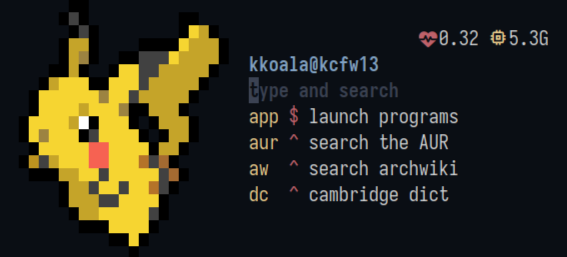
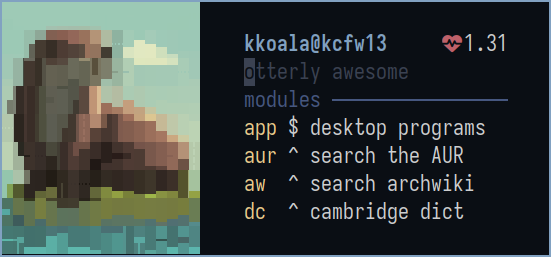
rice default config & update readme

diff --git a/README.md b/README.md
@@ -1,7 +1,7 @@
 
 # otter-launcher
 
-![cover_pic](./assets/soothing.png)
+![cover_pic](./assets/default.png)
 
 A very hackable app launcher, designed for keyboard-centric wm users. It is blazingly fast, supports vi and emacs keybinds, and can be decorated with ansi color codes, sixel or kitty image protocols. Plus, through bash scripting, system info widgets can be added to the infinity.
 
@@ -63,11 +63,11 @@ sudo cp /tmp/otter-launcher/target/release/otter-launcher /usr/bin/
 
 2. Create a config file mannually
 
-The default config file looks for /etc/otter-launcher/pikachu.example, which is in the repos's config_example folder. You can modify the config file to either remove this line from overlay_cmd or point to the pikachu.
+Create a config at $HOME/.config/otter-launcher/config.toml. The [default config](https://github.com/kuokuo123/otter-launcher/tree/main/config_example/config.toml) looks for /etc/otter-launcher/[pikachu.example](https://github.com/kuokuo123/otter-launcher/tree/main/config_example/pikachu.example) to show a chafa image. You can modify the config file to remove this line from overlay_cmd.
 
 # Configuration
 
-Otter-launcher reads from $HOME/.config/otter-launcher/config.toml. If that file is missing, it looks into /etc/otter-launcher/config.toml, which is included with AUR installation.
+Otter-launcher reads from $HOME/.config/otter-launcher/config.toml. If that file is missing, it looks into /etc/otter-launcher/config.toml, which is included in AUR installation.
 
 The confing file encompasses four parts:
 
@@ -76,9 +76,9 @@ The confing file encompasses four parts:
 - [overlay] includes options releated to image integration
 - [[modules]] can be configured through bash scripting in an unlimited number
 
-All the available are listed below, and can also be found in [config_example](https://github.com/kuokuo123/otter-launcher/tree/main/config_example). Also, check [more examples of module config](https://github.com/kuokuo123/otter-launcher/wiki) at the wiki page.
+All the available options are listed below and in the [config_example](https://github.com/kuokuo123/otter-launcher/tree/main/config_example). Also, check [more examples of module config](https://github.com/kuokuo123/otter-launcher/wiki) at the wiki page.
 
-Since v0.6.0, the default config comes with a pikachu to demonstrate how image integration works.
+Since v0.6.1, the default config comes with a chafa otter to demonstrate how image integration works.
 
 ![Example Config](./assets/default.png)
 
@@ -94,41 +94,40 @@ cheatsheet_entry = "?" # when prompted, will show a list of configured modules
 cheatsheet_viewer = "less -R; clear" # command to show cheatsheet; through piping stdout
 clear_screen_after_execution = false
 loop_mode = false # don't quit after executing a module, useful with scratchpads
-external_editor = "nvim" # if set, press ctrl+e (or v in vi normal mode) to edit prompt in specified program
+external_editor = "vi" # if set, press ctrl+e (or v in vi normal mode) to edit prompt in specified program
 delay_startup = 0 # sometimes the otter runs too fast even before the terminal window is ready; this slows it down by milliseconds; useful when chafa image is skewed
 #callback = "" # if set, will run after module execution; for example, calling swaymsg to adjust window size
 
 
 # ANSI color codes are allowed. However, \x1b should be replaced with \u001B, because the rust toml crate cannot read \x as an escaped character
 [interface]
-# use three quotes to write longer commands
+# use three quotes to write longer codes
 header = """
-                   \u001B[31m\u001B[0m $(cat /proc/loadavg | cut -d ' ' -f 1) \u001B[33m\u001B[0m $(free -h | awk 'FNR == 2 {print $3}' | sed 's/i//')
-  \u001B[34;1m$USER@$(printf $HOSTNAME)
- \u001B[0;1m """
+  \u001B[34;1m$USER@$(printf $HOSTNAME)\u001B[0m     \u001B[31m\u001B[0m $(mpstat | awk 'FNR ==4 {print $4}')
+  """
 header_cmd = "" # run a command and print stdout above the header
 header_cmd_trimmed_lines = 0 # remove trailing lines from header_cmd output, in case of some programs appending excessive empty lines
 header_concatenate = false # print header and header_cmd output to the same line, default to false
-place_holder = "type and search" # at the input field
+place_holder = "otterly awesome" # at the input field
 suggestion_mode = "list" # available options: list, hint
-separator = "" # add a line between intput field and suggestion list; only effective in list mode
+separator = "                      \u001B[90mmodules ────────────────" # add a line between intput field and suggestion list; only effective in list mode
 footer = "" # add a line after suggestion list
 suggestion_lines = 4 # 0 to disable suggestions and tab completion
 list_prefix = "  "
-selection_prefix = "\u001B[31;1m> "
+selection_prefix = "\u001B[31;1m▌ "
 prefix_padding = 3 # format prefixes to have a uniformed width
 default_module_message = "  \u001B[33msearch\u001B[0m the internet" # shown when the default module is in use
 empty_module_message = "" # shown when the empty module is in use
 customized_list_order = false # false to list modules alphabetically; true to list as per the configured order in the below [[modules]] section
-indicator_with_arg_module = "\u001B[31m^\u001B[0m " # the sign showing whether a module should run with an argument
-indicator_no_arg_module = "\u001B[31m$\u001B[0m "
+indicator_with_arg_module = "^ " # the sign showing whether a module should run with an argument
+indicator_no_arg_module = "$ "
 # below color options affect all modules; per-module coloring can be configured using ansi codes individually
 prefix_color = "\u001B[33m"
 description_color = "\u001B[39m"
 place_holder_color = "\u001B[30m"
 hint_color = "\u001B[30m" # suggestion color in hint mode
 # move the interface rightward or downward
-move_interface_right = 23
+move_interface_right = 20
 move_interface_down = 1
 
 
@@ -139,15 +138,15 @@ overlay_cmd = """
 cat /etc/otter-launcher/pikachu.example \
 || echo -e "The file pickachu.example is not found. Pikachu can be at the below blank area. Fix this by modifying the overlay_cmd option in your config file.\n\n"
 """
-overlay_trimmed_lines = 1 # remove trailing lines from overlay_cmd output
+overlay_trimmed_lines = 0 # remove trailing lines from overlay_cmd output
 overlay_height = 0 # set overlay size; 0 to be auto; 1 is one line, 2 two lines, etc; kitty & sixel image size can be determined automatically; others should be set mannually
-move_overlay_right = 2 # move the overlay layer around for theming
+move_overlay_right = 0 # move the overlay layer around for theming
 move_overlay_down = 0
 
 
 # modules are defined as followed
 [[modules]]
-description = "search with google"
+description = "google search"
 prefix = "gg"
 cmd = "xdg-open https://www.google.com/search?q='{}'" # try wm's exec command for unbinding if 'setsid -f' does not work as expected, eg. 'hyprctl dispatch exec'
 with_argument = true # if true, {} in cmd will be replaced with user input. if not explicitly set, taken as false.
@@ -156,7 +155,7 @@ unbind_proc = true # run cmd in a forked shell as opposed to as a child process;
 
 # fzf is needed to run below functions
 [[modules]]
-description = "launch programs"
+description = "desktop programs"
 prefix = "app"
 cmd = """
 desktop_file() {
@@ -166,7 +165,7 @@ find "$HOME/.local/share/applications" -name "*.desktop" 2>/dev/null
 find /var/lib/flatpak/exports/share/applications -name "*.desktop" 2>/dev/null
 find "$HOME/.local/share/flatpak/exports/share/applications" -name "*.desktop" 2>/dev/null
 }
-selected="$(desktop_file | sed 's/.desktop$//g' | sort | fzf -m -d / --with-nth -1 --reverse --padding 1,3 --prompt 'Launch Apps: ')"
+selected="$(desktop_file | sed 's/.desktop$//g' | sort | fzf --reverse --padding 1,3 --info-command 'echo -e " desktop apps ($FZF_POS/$FZF_TOTAL_COUNT)"' --cycle --pointer " ▌" --color "bg+:-1,pointer:1,info:8,separator:8,scrollbar:0" --prompt '  ' -m -d / --with-nth -1 )"
 [ -z "$selected" ] && exit
 echo "$selected" | while read -r line ; do setsid -f gtk-launch "$(basename $line)"; done
 """
@@ -184,7 +183,7 @@ case $1 in
 "reboot") systemctl reboot ;;
 "shutdown") systemctl poweroff ;;
 esac fi }
-power $(echo -e 'reboot\nshutdown\nlogout\nsuspend\nhibernate' | fzf --reverse --no-scrollbar --padding 1,3 --prompt 'Power Menu: ' | tail -1)
+power $(echo -e 'reboot\nshutdown\nlogout\nsuspend\nhibernate' | fzf --reverse --padding 1,2 --info-command 'printf " power menu ($FZF_POS/$FZF_TOTAL_COUNT)"' --cycle --pointer " ▌" --color "bg+:-1,pointer:1,info:8,separator:8,scrollbar:0" --prompt '  ' | tail -1)
 """
 
 [[modules]]
@@ -228,17 +227,18 @@ with_argument = true
 url_encode = true
 unbind_proc = true
 
-# fd is needed to run below functions
 [[modules]]
 description = "open files (fzf)"
 prefix = "fo"
-cmd = "fd --type f | fzf --with-nth -1 --reverse --padding 1,3 --prompt 'Open Files: ' | setsid -f xargs -r -I [] xdg-open '[]'"
+cmd = """
+find $HOME -type f -not -path '*/.cache/*' 2>/dev/null | fzf --reverse --padding 1,3 --info-command 'printf " files ($FZF_POS/$FZF_TOTAL_COUNT)"' --cycle --pointer ' ▌' --color 'bg+:-1,pointer:1,info:8,separator:8,scrollbar:0' --prompt '  ' | setsid -f xargs -r -I [] xdg-open '[]'
+"""
 
 [[modules]]
-description = "open folders (yazi)"
+description = "open dirs (yazi)"
 prefix = "yz"
 cmd = """
-fd --type d | fzf --with-nth -1 --reverse --padding 1,3 --prompt 'Open Folders: ' | xargs -r -I [] setsid -f "$(echo $TERM | sed 's/xterm-//g')" -e yazi '[]'
+find $HOME -type d -not -path '*/.cache/*' 2>/dev/null | fzf --reverse --padding 1,3 --info-command 'printf " directories ($FZF_POS/$FZF_TOTAL_COUNT)"' --cycle --pointer ' ▌' --color 'bg+:-1,pointer:1,info:8,separator:8,scrollbar:0' --prompt '  ' | xargs -r -I [] setsid -f "$(echo $TERM | sed 's/xterm-//g')" -e yazi '[]'
 """
 ```
 
